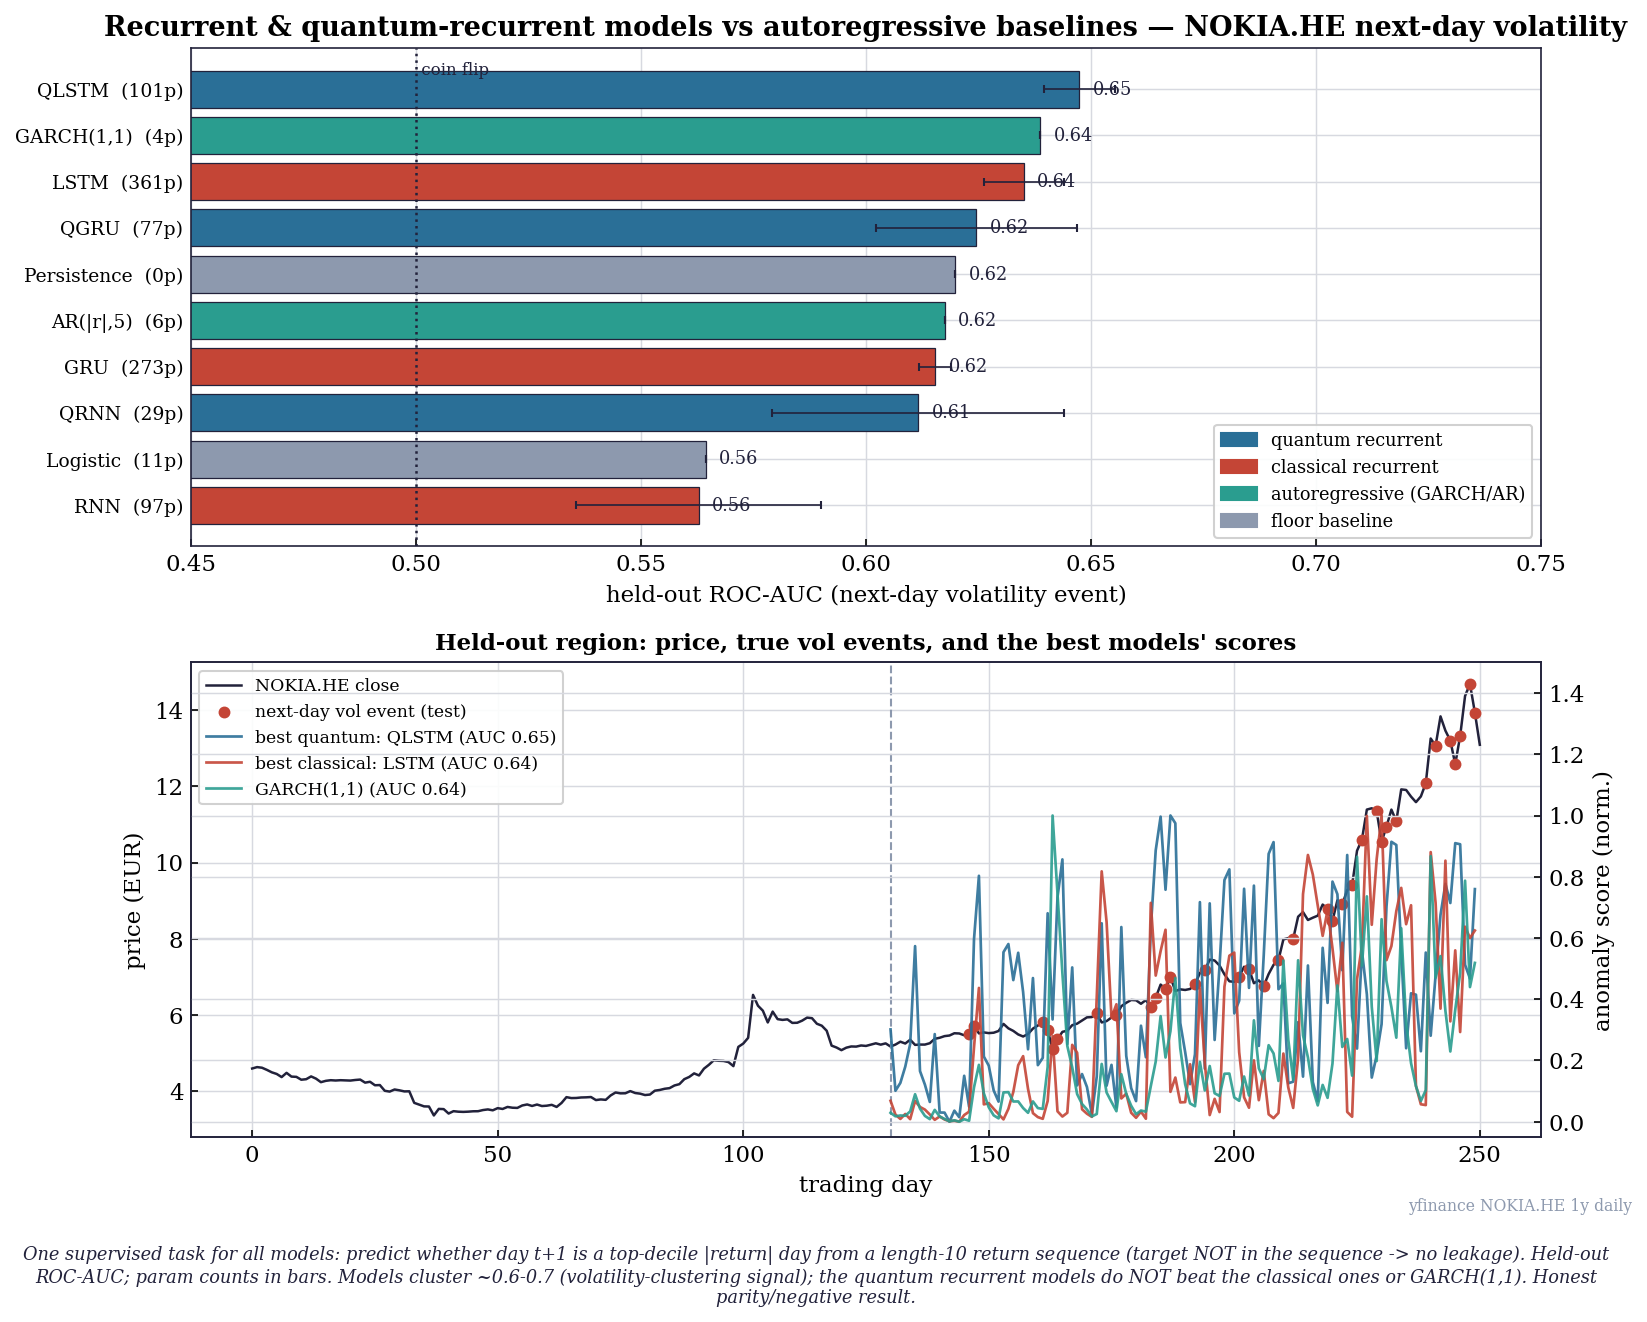
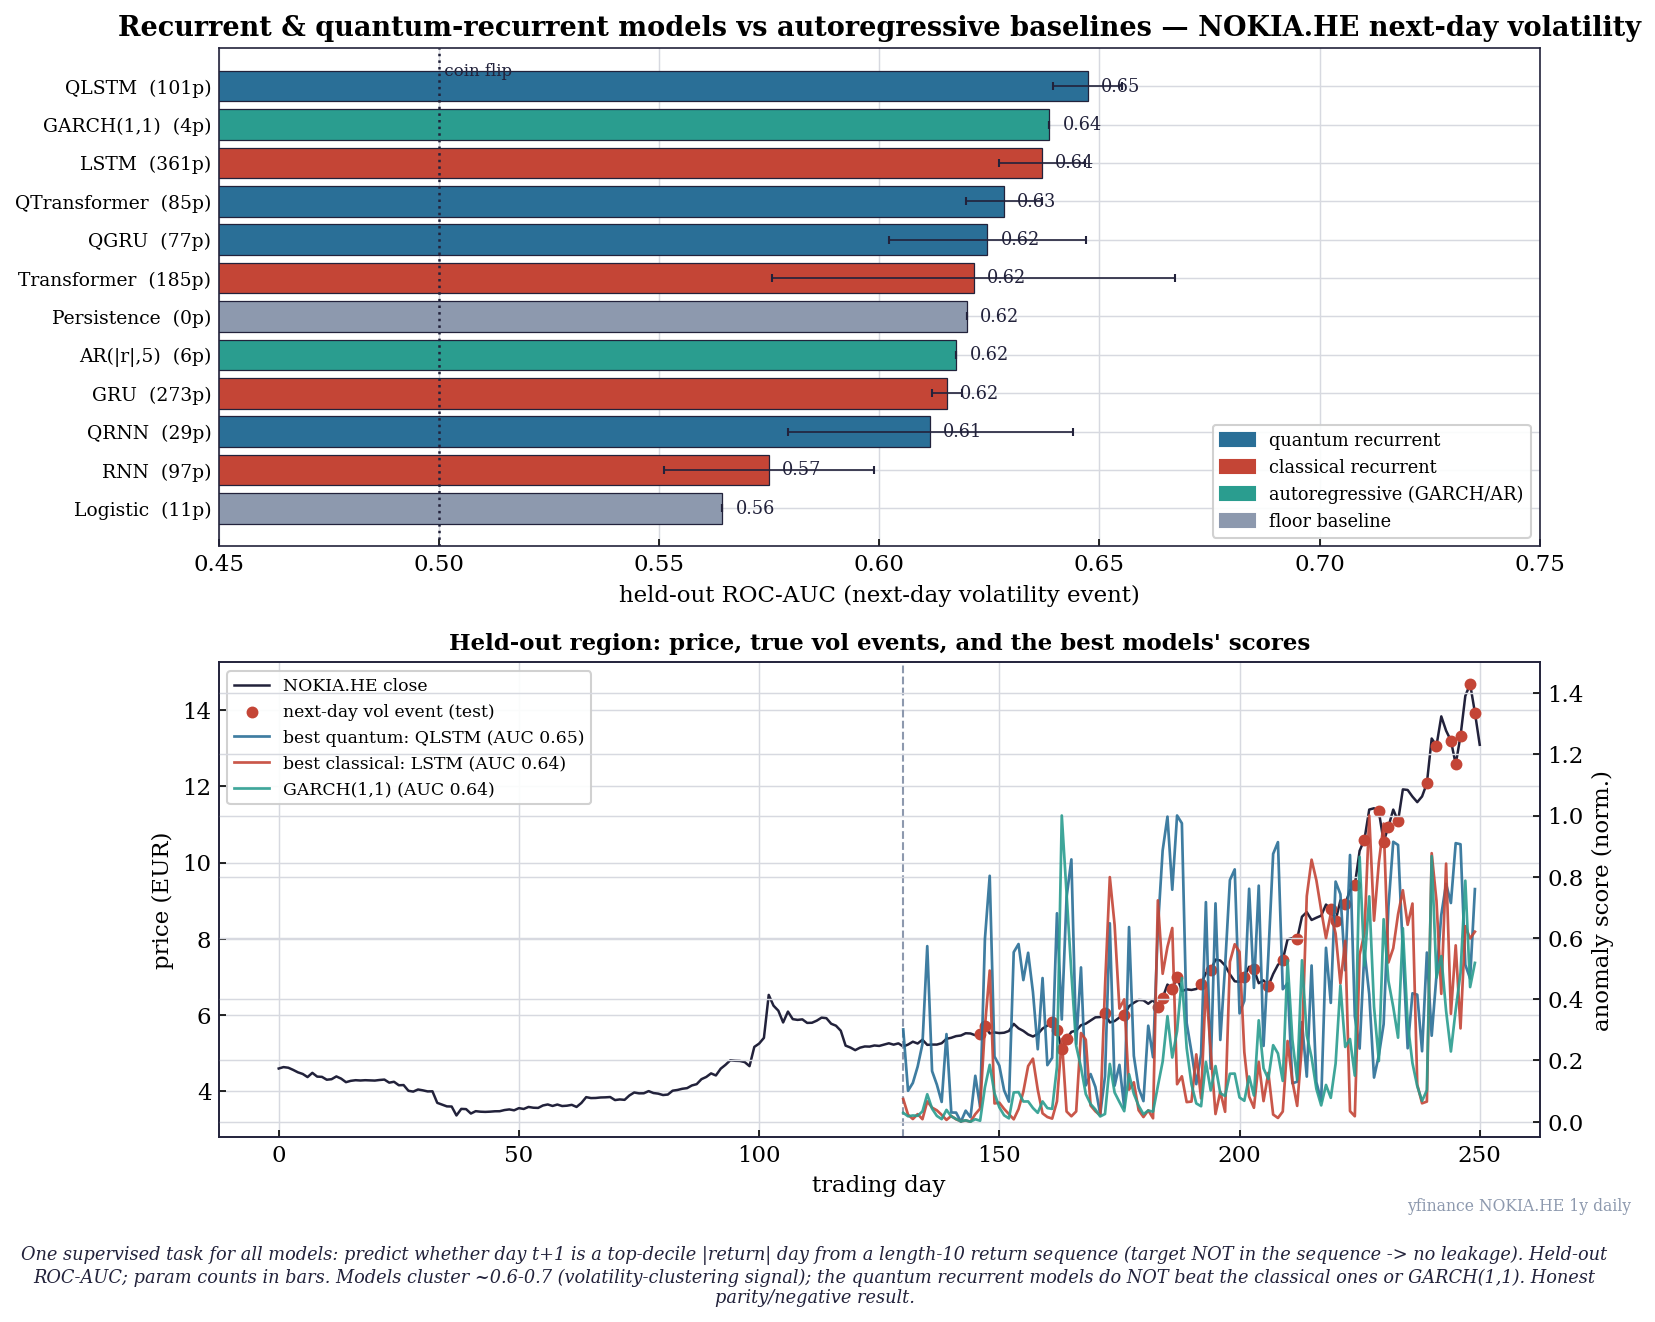
experiment(qtransformer): add classical Transformer + quantum self-attention (QSANN)
Adds TransformerClassifier (multi-head attention encoder) and QuantumTransformer
(QSANN-style, Li et al. 2022: VQC Q/K/V projections + classical softmax attention)
to the NOKIA.HE next-day-volatility benchmark. Shared make_token_layer added to qcell.

Honest result holds (5-seed, matched wd): both land in the same ~0.62-0.65 cluster;
neither beats GARCH(1,1) (0.639) or QLSTM (0.647). The classical Transformer is the
LEAST stable model (0.621±0.046), over-parameterized for 120 samples. 41 unit tests
pass; figure + README updated.

diff --git a/experiments/quantum_rnn/test_transformers.py b/experiments/quantum_rnn/test_transformers.py
@@ -1,0 +1,52 @@
+"""Tests for the classical and quantum transformer classifiers."""
+import os
+import sys
+
+import numpy as np
+
+sys.path.insert(0, os.path.dirname(os.path.abspath(__file__)))
+import classical_tf as ct
+import quantum_tf as qt
+import classical_rnn as cr   # shared train/scores/count_params
+
+MODELS = [ct.TransformerClassifier, qt.QuantumTransformer]
+
+
+def _Cls(M, seed):
+    return M(seed=seed)
+
+
+def test_forward_outputs_probabilities():
+    rng = np.random.default_rng(0)
+    X = rng.normal(0, 1, (5, 10))
+    for M in MODELS:
+        s = cr.scores(_Cls(M, 0), X)
+        assert s.shape == (5,)
+        assert np.all((s >= 0.0) & (s <= 1.0)), M.__name__
+
+
+def test_deterministic_under_seed():
+    rng = np.random.default_rng(1)
+    X = rng.normal(0, 1, (20, 10)); y = (X.mean(1) > 0).astype(int)
+    for M in MODELS:
+        a = _Cls(M, 3); cr.train(a, X, y, epochs=6, seed=3)
+        b = _Cls(M, 3); cr.train(b, X, y, epochs=6, seed=3)
+        np.testing.assert_allclose(cr.scores(a, X), cr.scores(b, X),
+                                   rtol=1e-5, atol=1e-6, err_msg=M.__name__)
+
+
+def test_training_reduces_loss_on_separable_signal():
+    rng = np.random.default_rng(2)
+    X = rng.normal(0, 1, (50, 10)); y = (X.mean(1) > 0).astype(int)
+    for M in MODELS:
+        model = _Cls(M, 0)
+        hist = cr.train(model, X, y, epochs=60, lr=0.05, seed=0)
+        assert hist[-1] < hist[0], M.__name__
+
+
+def test_param_counts_positive_and_quantum_is_lean():
+    n_classical = cr.count_params(ct.TransformerClassifier(seed=0))
+    n_quantum = cr.count_params(qt.QuantumTransformer(seed=0))
+    assert n_classical > 0 and n_quantum > 0
+    # the quantum self-attention uses far fewer params than the classical encoder
+    assert n_quantum < n_classical

diff --git a/experiments/quantum_rnn/classical_tf.py b/experiments/quantum_rnn/classical_tf.py
@@ -1,0 +1,42 @@
+"""Classical Transformer-encoder classifier for the next-day-volatility task.
+
+A small self-attention encoder: embed each scalar return to d_model, add a
+sinusoidal positional encoding, run TransformerEncoder layers (multi-head
+attention + FFN), mean-pool over the sequence, linear head -> sigmoid. Same
+training loop and seeding as every other model in the benchmark.
+"""
+import math
+
+import torch
+import torch.nn as nn
+
+
+def sinusoidal_pe(L, d):
+    """Standard fixed sinusoidal positional encoding, shape (L, d). Parameter-free
+    so it is identical (and fair) across the classical and quantum transformers."""
+    pe = torch.zeros(L, d)
+    pos = torch.arange(L).unsqueeze(1).float()
+    div = torch.exp(torch.arange(0, d, 2).float() * (-math.log(10000.0) / d))
+    pe[:, 0::2] = torch.sin(pos * div)
+    pe[:, 1::2] = torch.cos(pos * div)
+    return pe
+
+
+class TransformerClassifier(nn.Module):
+    def __init__(self, d_model=4, nhead=2, dim_ff=8, n_layers=1, L=10, seed=0):
+        super().__init__()
+        torch.manual_seed(seed)
+        self.embed = nn.Linear(1, d_model)
+        self.register_buffer("pe", sinusoidal_pe(L, d_model))
+        layer = nn.TransformerEncoderLayer(d_model=d_model, nhead=nhead,
+                                           dim_feedforward=dim_ff, dropout=0.0,
+                                           batch_first=True)
+        self.encoder = nn.TransformerEncoder(layer, num_layers=n_layers,
+                                             enable_nested_tensor=False)
+        self.head = nn.Linear(d_model, 1)
+
+    def forward(self, x):                          # x: (B, L)
+        L = x.shape[1]
+        h = self.embed(x.unsqueeze(-1)) + self.pe[:L]   # (B, L, d_model)
+        h = self.encoder(h)
+        return torch.sigmoid(self.head(h.mean(dim=1))).squeeze(-1)  # (B,)

diff --git a/experiments/quantum_rnn/quantum_tf.py b/experiments/quantum_rnn/quantum_tf.py
@@ -1,0 +1,40 @@
+"""Quantum Transformer (quantum self-attention) classifier — QSANN-style
+(Li et al. 2022). The query/key/value projections of a self-attention block are
+data-reuploading variational quantum circuits instead of linear layers; the
+scaled-dot-product attention and softmax stay classical. Embed each return to an
+n_qubit token vector + sinusoidal positional encoding, compute Q/K/V via three
+VQCs, attend, mean-pool, linear head -> sigmoid. Fully simulable on
+default.qubit; trains with the shared classical_rnn.train loop (torch backprop).
+The quantum analogue of classical_tf.TransformerClassifier.
+"""
+import math
+
+import torch
+import torch.nn as nn
+
+from qcell import make_token_layer
+from classical_tf import sinusoidal_pe
+
+
+class QuantumTransformer(nn.Module):
+    def __init__(self, n_qubits=4, n_layers=2, L=10, seed=0):
+        super().__init__()
+        torch.manual_seed(seed)
+        self.d = n_qubits
+        self.embed = nn.Linear(1, n_qubits)
+        self.register_buffer("pe", sinusoidal_pe(L, n_qubits))
+        self.vqc_q = make_token_layer(n_qubits, n_layers)   # quantum Q projection
+        self.vqc_k = make_token_layer(n_qubits, n_layers)   # quantum K projection
+        self.vqc_v = make_token_layer(n_qubits, n_layers)   # quantum V projection
+        self.head = nn.Linear(n_qubits, 1)
+
+    def forward(self, x):                          # x: (B, L)
+        B, L = x.shape
+        h = self.embed(x.unsqueeze(-1)) + self.pe[:L]   # (B, L, d)
+        flat = h.reshape(B * L, self.d)
+        Q = self.vqc_q(flat).reshape(B, L, self.d)
+        K = self.vqc_k(flat).reshape(B, L, self.d)
+        V = self.vqc_v(flat).reshape(B, L, self.d)
+        scores = torch.matmul(Q, K.transpose(1, 2)) / math.sqrt(self.d)  # (B, L, L)
+        ctx = torch.matmul(torch.softmax(scores, dim=-1), V)             # (B, L, d)
+        return torch.sigmoid(self.head(ctx.mean(dim=1))).squeeze(-1)     # (B,)

diff --git a/experiments/quantum_rnn/qcell.py b/experiments/quantum_rnn/qcell.py
@@ -27,3 +27,20 @@ def make_gate_layer(n_qubits=4, n_layers=2):
     qnode = qml.QNode(circuit, dev, interface="torch", diff_method="backprop")
     shape = qml.StronglyEntanglingLayers.shape(n_layers=n_layers, n_wires=n_qubits)
     return qml.qnn.TorchLayer(qnode, {"weights": shape})
+
+
+def make_token_layer(n_qubits=4, n_layers=2):
+    """Return a `qml.qnn.TorchLayer` taking a token embedding of shape (..., n_qubits)
+    (one angle per wire) and returning (..., n_qubits) expectation values in [-1, 1].
+    Used as the variational Q/K/V projection in the quantum self-attention block."""
+    dev = qml.device("default.qubit", wires=n_qubits)
+
+    def circuit(inputs, weights):
+        for i in range(n_qubits):
+            qml.RY(inputs[..., i], wires=i)
+        qml.StronglyEntanglingLayers(weights, wires=range(n_qubits))
+        return [qml.expval(qml.PauliZ(i)) for i in range(n_qubits)]
+
+    qnode = qml.QNode(circuit, dev, interface="torch", diff_method="backprop")
+    shape = qml.StronglyEntanglingLayers.shape(n_layers=n_layers, n_wires=n_qubits)
+    return qml.qnn.TorchLayer(qnode, {"weights": shape})

diff --git a/experiments/quantum_rnn/run_rnn_bench.py b/experiments/quantum_rnn/run_rnn_bench.py
@@ -31,6 +31,8 @@ import ar_baseline as ar
 from quantum_rnn import QRNN
 from quantum_gru import QGRU
 from quantum_lstm import QLSTM
+from classical_tf import TransformerClassifier
+from quantum_tf import QuantumTransformer
 try:
     from results import style
     _HAVE_STYLE = True
@@ -71,6 +73,8 @@ def main():
         ("QRNN", "quantum", QRNN),
         ("QGRU", "quantum", QGRU),
         ("QLSTM", "quantum", QLSTM),
+        ("Transformer", "classical", TransformerClassifier),
+        ("QTransformer", "quantum", QuantumTransformer),
     ]
     for name, fam, Cls in torch_models:
         aucs = []

diff --git a/experiments/quantum_rnn/README.md b/experiments/quantum_rnn/README.md
@@ -18,6 +18,10 @@ Design spec: `docs/superpowers/specs/2026-06-06-quantum-recurrent-benchmark-desi
 - **Quantum recurrent** (PennyLane `default.qubit`, 4 qubits, data-reuploading VQC
   cells, Chen et al. 2020): `QRNN`, `QGRU`, `QLSTM`. Each gate is a small
   `StronglyEntanglingLayers` circuit reused across timesteps; fully simulable.
+- **Transformers**: a classical `Transformer` encoder (multi-head self-attention +
+  FFN, sinusoidal positional encoding) and a `QTransformer` — quantum self-attention
+  (QSANN, Li et al. 2022) whose Q/K/V projections are VQCs, with classical softmax
+  attention. Both mean-pool and use a linear head.
 - **Autoregressive baselines**: `GARCH(1,1)` (the textbook volatility-clustering
   model, `arch`) and `AR(p)` on `|returns|` (statsmodels).
 - **Floor baselines**: persistence (`|return|_t`) and logistic regression.
@@ -28,21 +32,26 @@ Design spec: `docs/superpowers/specs/2026-06-06-quantum-recurrent-benchmark-desi
 |---|---|---|---|
 | QLSTM | quantum | 0.647 ± 0.008 | 101 |
 | **GARCH(1,1)** | autoregressive | **0.639** | **4** |
-| LSTM | classical | 0.635 ± 0.009 | 361 |
+| LSTM | classical | 0.637 ± 0.010 | 361 |
+| QTransformer | quantum | 0.628 ± 0.009 | 85 |
 | QGRU | quantum | 0.625 ± 0.022 | 77 |
+| Transformer | classical | 0.621 ± 0.046 | 185 |
 | Persistence | floor | 0.620 | 0 |
 | AR(\|r\|,5) | autoregressive | 0.617 | 6 |
 | GRU | classical | 0.615 ± 0.004 | 273 |
 | QRNN | quantum | 0.612 ± 0.032 | 29 |
+| RNN | classical | 0.575 ± 0.024 | 97 |
 | Logistic | floor | 0.564 | 11 |
-| RNN | classical | 0.563 ± 0.027 | 97 |
 
 **Takeaways:**
 - **No model meaningfully beats GARCH(1,1)** — a 4-parameter classical model from
   1986. The best performer (QLSTM, 0.647) ties it within one standard deviation.
-- Everything clusters ~0.61–0.65, barely above the persistence floor (0.620). On
-  near-random-walk daily returns, only volatility clustering is learnable and a tiny
-  GARCH captures it as well as anything. Architecture barely matters.
+- Everything (recurrent, transformer, quantum, classical) clusters ~0.61–0.65,
+  barely above the persistence floor (0.620). On near-random-walk daily returns,
+  only volatility clustering is learnable and a tiny GARCH captures it as well as
+  anything. **Architecture barely matters** — including attention: the classical
+  Transformer is actually the *least stable* model (±0.046), over-parameterized for
+  120 training samples.
 - **Quantum is on par with classical, not ahead.** The quantum cells reach the
   cluster with far fewer parameters (29–101 vs 97–361) and no explicit
   regularization — a mild parameter-efficiency observation, not a predictive win.
@@ -59,12 +68,13 @@ before believing a surprising win) is part of the result.
 
 - `seqdata.py` — sequence/label construction (no leakage), z-scoring, `roc_auc`.
 - `classical_rnn.py` — `RNN/GRU/LSTMClassifier` + shared `train/scores/count_params`.
-- `qcell.py` — shared data-reuploading VQC gate (`make_gate_layer`).
+- `qcell.py` — shared VQC builders (`make_gate_layer` for recurrence, `make_token_layer` for attention Q/K/V).
 - `quantum_rnn.py`, `quantum_gru.py`, `quantum_lstm.py` — `QRNN/QGRU/QLSTM`.
+- `classical_tf.py`, `quantum_tf.py` — `TransformerClassifier`, `QuantumTransformer` (QSANN).
 - `ar_baseline.py` — `garch_forecast`, `ar_abs_forecast`.
 - `baselines.py` — persistence + logistic.
 - `run_rnn_bench.py` — the benchmark → `rnn_benchmark.png`.
-- `test_*.py` — 37 unit tests (harness, every cell, baselines).
+- `test_*.py` — 41 unit tests (harness, every recurrent + transformer cell, baselines).
 - `requirements.txt` — `torch`, `pennylane`, `arch`.
 
 ## Run